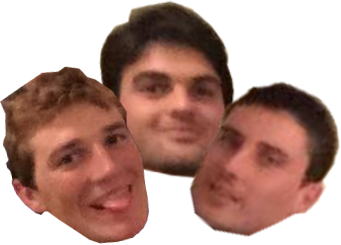
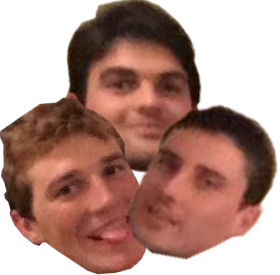
Ajout de nouvelles animations lors du passage de la souris.

diff --git a/public/css/main.css b/public/css/main.css
@@ -81,6 +81,8 @@ body {
 }
 
 .imgdeb{
+  max-height:250px;
+  max-width:210px;
   width:100%;
   height:100%;
 }
@@ -107,11 +109,35 @@ body {
   }
 }
 
-.imgdeb:hover{
+.imgdeb0:hover{
   animation-duration: 1s;
   animation-fill-mode: both;
   transform-origin: top center;
   animation-name: swing;
+  animation-iteration-count: infinite;
+}
+
+.imgdeb1:hover{
+  animation-duration: 1s;
+  animation-fill-mode: both;
+  transform-origin: top center;
+  animation-name: tada;
+  animation-iteration-count: infinite;
+}
+
+.imgdeb2:hover{
+  animation-duration: 1s;
+  animation-fill-mode: both;
+  transform-origin: top center;
+  animation-name: rubberBand;
+  animation-iteration-count: infinite;
+}
+
+.imgdeb3:hover{
+  animation-duration: 1s;
+  animation-fill-mode: both;
+  transform-origin: top center;
+  animation-name: wobble;
   animation-iteration-count: infinite;
 }
 
@@ -147,4 +173,95 @@ body {
 
 .description img{
   max-width:320px;
+}
+
+@keyframes rubberBand {
+  from {
+    transform: scale3d(1, 1, 1);
+  }
+
+  30% {
+    transform: scale3d(1.25, 0.75, 1);
+  }
+
+  40% {
+    transform: scale3d(0.75, 1.25, 1);
+  }
+
+  50% {
+    transform: scale3d(1.15, 0.85, 1);
+  }
+
+  65% {
+    transform: scale3d(.95, 1.05, 1);
+  }
+
+  75% {
+    transform: scale3d(1.05, .95, 1);
+  }
+
+  to {
+    transform: scale3d(1, 1, 1);
+  }
+}
+
+.rubberBand {
+  animation-name: rubberBand;
+}
+
+@keyframes tada {
+  from {
+    transform: scale3d(1, 1, 1);
+  }
+
+  10%, 20% {
+    transform: scale3d(.9, .9, .9) rotate3d(0, 0, 1, -3deg);
+  }
+
+  30%, 50%, 70%, 90% {
+    transform: scale3d(1.1, 1.1, 1.1) rotate3d(0, 0, 1, 3deg);
+  }
+
+  40%, 60%, 80% {
+    transform: scale3d(1.1, 1.1, 1.1) rotate3d(0, 0, 1, -3deg);
+  }
+
+  to {
+    transform: scale3d(1, 1, 1);
+  }
+}
+
+.tada {
+  animation-name: tada;
+}
+
+
+@keyframes wobble {
+  from {
+    transform: none;
+  }
+
+  15% {
+    transform: translate3d(-25%, 0, 0) rotate3d(0, 0, 1, -5deg);
+  }
+
+  30% {
+    transform: translate3d(20%, 0, 0) rotate3d(0, 0, 1, 3deg);
+  }
+
+  45% {
+    transform: translate3d(-15%, 0, 0) rotate3d(0, 0, 1, -3deg);
+  }
+
+  60% {
+    transform: translate3d(10%, 0, 0) rotate3d(0, 0, 1, 2deg);
+  }
+
+  75% {
+    transform: translate3d(-5%, 0, 0) rotate3d(0, 0, 1, -1deg);
+  }
+
+  to {
+    transform: none;
+  }
 }

diff --git a/public/bundle.js b/public/bundle.js
@@ -22485,14 +22485,18 @@
 
 	            return _react2.default.createElement(
 	                "div",
-	                { className: "col-md-3 debile" },
+	                { className: "col-md-3 debile mx-auto" },
 	                _react2.default.createElement("audio", { id: "audio" + this.props.debile.id, preload: "auto", src: this.props.debile.son }),
 	                _react2.default.createElement(
-	                    "a",
-	                    { href: "#overlay" },
-	                    _react2.default.createElement("img", { id: "img" + this.props.debile.id, className: "img-responsive imgdeb", src: this.props.debile.image, onClick: function onClick() {
-	                            return _this2.clicImg(_this2.props.debile.id);
-	                        } })
+	                    "center",
+	                    null,
+	                    _react2.default.createElement(
+	                        "a",
+	                        { href: "#overlay" },
+	                        _react2.default.createElement("img", { id: "img" + this.props.debile.id, className: "img-responsive imgdeb imgdeb" + this.props.debile.id % 4, src: this.props.debile.image, onClick: function onClick() {
+	                                return _this2.clicImg(_this2.props.debile.id);
+	                            } })
+	                    )
 	                )
 	            );
 	        }

diff --git a/src/components/debile.js b/src/components/debile.js
@@ -13,9 +13,11 @@ class Debile extends React.Component{
 
     render(){
         return(
-            <div className="col-md-3 debile">
+            <div className="col-md-3 debile mx-auto">
                 <audio id={"audio"+this.props.debile.id} preload="auto" src={this.props.debile.son}/>
-                <a href="#overlay"><img id={"img"+this.props.debile.id}className="img-responsive imgdeb" src={this.props.debile.image} onClick={() => this.clicImg(this.props.debile.id)} /></a>
+                <center>
+                <a href="#overlay"><img id={"img"+this.props.debile.id}className={"img-responsive imgdeb imgdeb"+((this.props.debile.id)%4)} src={this.props.debile.image} onClick={() => this.clicImg(this.props.debile.id)} /></a>
+                </center>
             </div>
         );
     }
